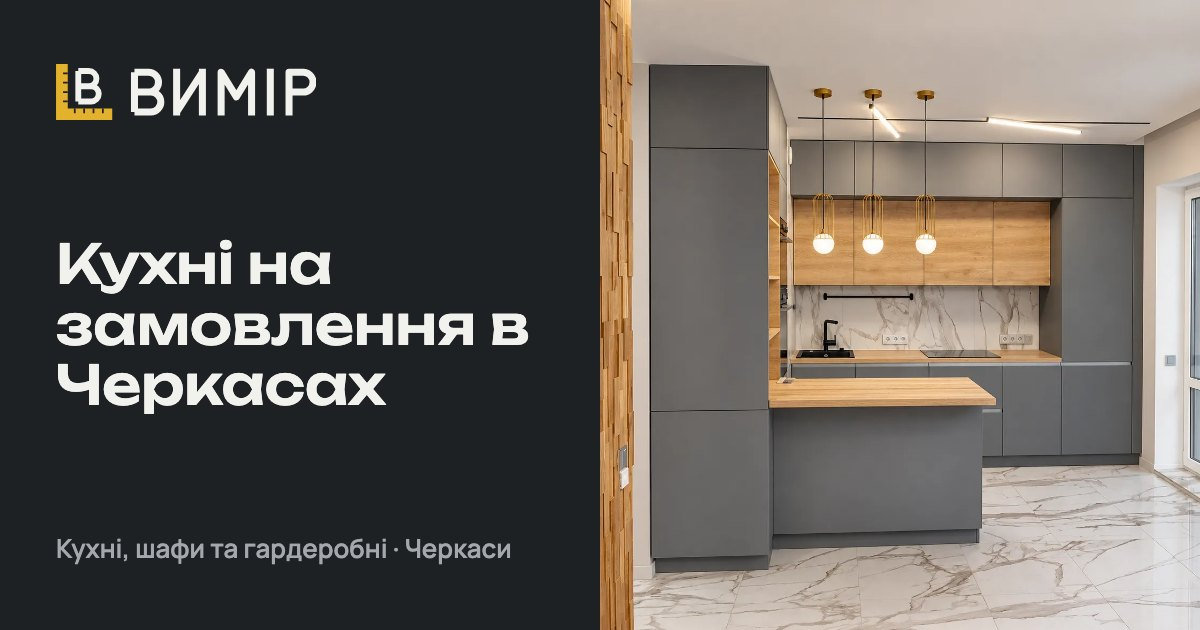
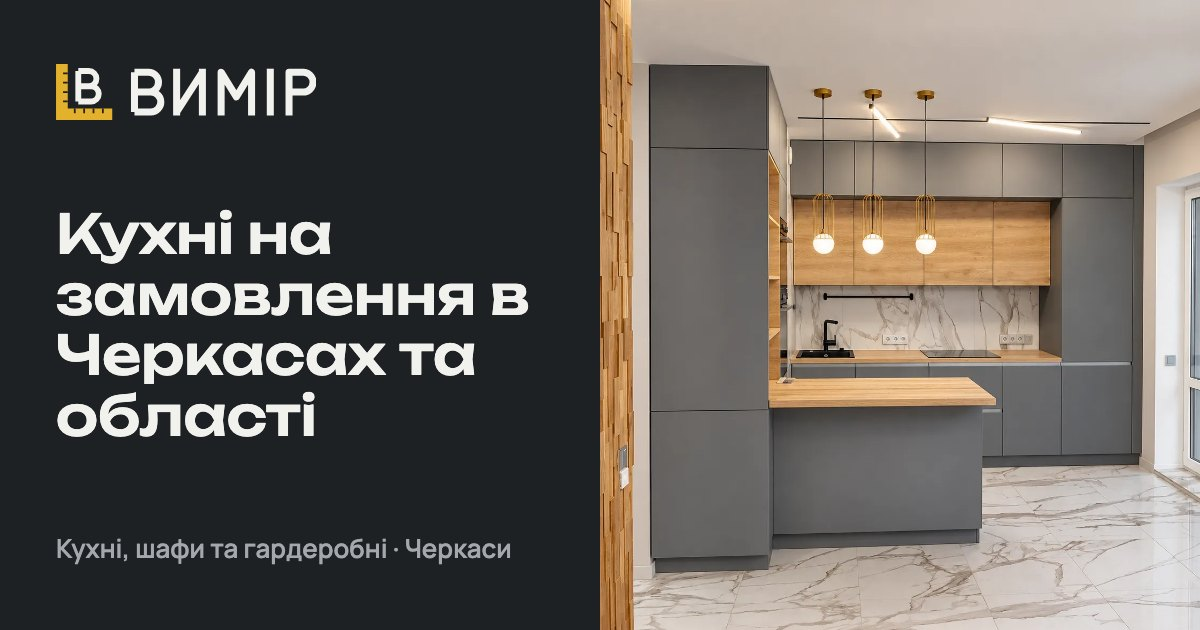
H1 /kukhni: «Кухні на замовлення в Черкасах та області»

Changed region(s): [[0.0308, 0.3317, 0.4625, 0.6937]]

diff --git a/tests/e2e/landings.spec.ts b/tests/e2e/landings.spec.ts
@@ -6,8 +6,8 @@ for (const l of [
   {
     path: '/kukhni',
     other: '/mebli',
-    h1: 'Кухні на замовлення в Черкасах',
-    title: 'Кухні на замовлення в Черкасах — Вимір',
+    h1: 'Кухні на замовлення в Черкасах та області',
+    title: 'Кухні на замовлення в Черкасах та області — Вимір',
     story: 'kitchen',
     photo: 'kukhnia-06',
     cats: ['kukhni'],

diff --git a/CLAUDE.md b/CLAUDE.md
@@ -152,7 +152,7 @@
 ## Решения владельца (две посадочные, 2026-10-21)
 - `/` — экран выбора: логотип, строка «Корпусні меблі під ваш розмір у Черкасах», две фотоплитки на весь экран («Кухні» → `/kukhni`, «Шафи та меблі» → `/mebli`; на телефоне одна под другой), внизу телефон и Viber. Без шапки, подвала, нижней панели и форм (`BaseLayout bare`).
 - `/kukhni` и `/mebli` — по одной структуре (`src/components/landing/Landing.astro`): фото, H1 и одна строка → сюжет сборки → 6 работ → квиз (свёрнут, ветка выбрана заранее) → вопросы → «Подзвонити», «Viber» и короткая форма.
-  - `/kukhni`: H1 «Кухні на замовлення в Черкасах», сюжет — кухня, работы — только кухни (`featured.kukhni`), квиз — с «Кухня», FAQ — `FAQ_KUKHNI`.
+  - `/kukhni`: H1 «Кухні на замовлення в Черкасах та області» (2026-10-24), сюжет — кухня, работы — только кухни (`featured.kukhni`), квиз — с «Кухня», FAQ — `FAQ_KUKHNI`.
   - `/mebli`: H1 «Шафи, гардеробні та корпусні меблі під ваш розмір у Черкасах», сюжет — шафа-купе, работы — шафи, гардеробні, меблі для бізнесу, дитяча (`featured.mebli`), квиз — с «Шафа або гардеробна», FAQ — `FAQ_MEBLI`.
   - У каждой свой title, description и тексты; дословно не повторяются (тест `landings.spec`).
 - Шапка посадочных — переключатель «Кухні · Меблі», активный пункт графитовый; на телефоне вместо полного логотипа знак. Меню: Кухні · Меблі · Роботи · Як ми створюємо · Контакти.
